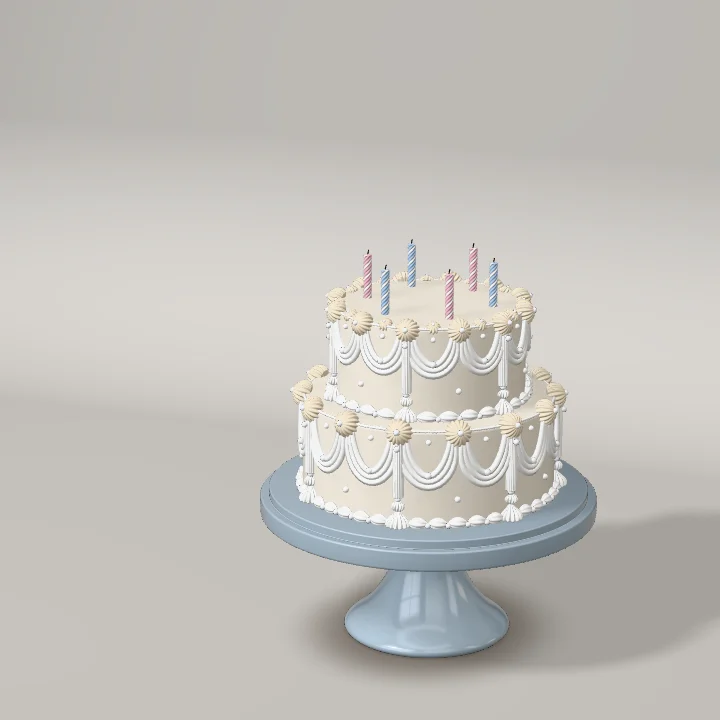
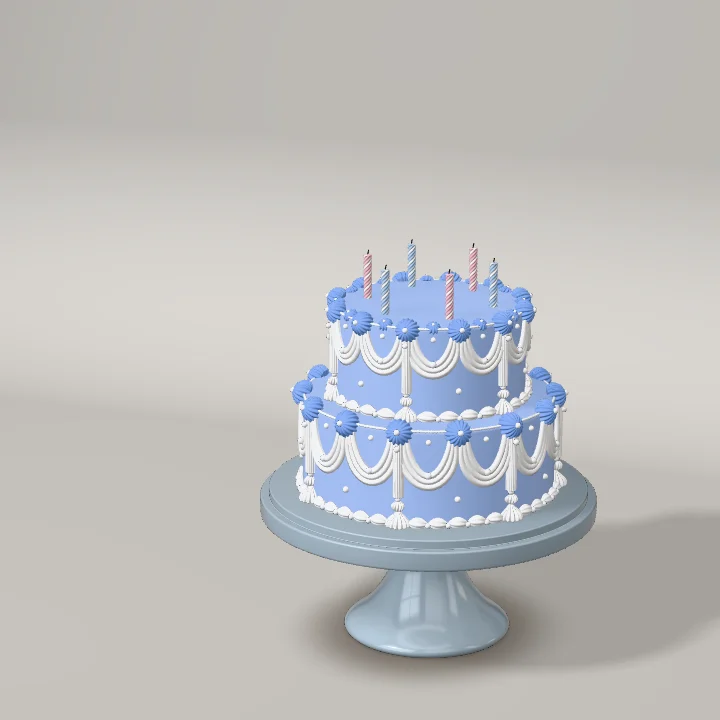
Birthday: the default cake is the blue theme
The master already carried the blue palette (powder-blue body, warm-white piping, cornflower
rosettes), but the recipe recoloured the default to ivory. The 'vanilla' config key now renders
the blue theme (labelled Blue in the showcase); cocoa unchanged. Posters and thumbnail regenerated.

Changed region(s): [[0.3972, 0.3667, 0.7944, 0.7333]]

diff --git a/scripts/masters/recipes/birthday.ts b/scripts/masters/recipes/birthday.ts
@@ -40,7 +40,9 @@ import type { MaterialPolicy, MaterialVariantSpec, NodeMap, Quat, SceneRecipe } 
  *   baseColorFactor; the shipped structure, the original ivory rebuild's warmth); cocoa is a
  *   KHR_materials_variants copy of the same four materials (chocolate body, milk-chocolate
  *   piping, dark rosettes, ivory pearls). Stand and candles keep the master's colours.
- * - Vanilla (studio pass v1.3): back to the ivory rebuild's palette (body #F3E9D8, piping
+ * - 2026-10-02: the owner asked for the blue theme, so the default ('vanilla' key) is the master's blue palette
+ *   (#B0CBFF / #FFFDFA / #88B0F7) instead of ivory.
+ * - Vanilla (studio pass v1.3, superseded by the line above): back to the ivory rebuild's palette (body #F3E9D8, piping
  *   #FFFDF8, rosettes #F3E3C7) at the master's own roughness. v1.2.1 had darkened the body to
  *   #E0D3BF at roughness 0.58 (piping #FFFCF6, rosettes #F7EFE1) because the ivory sat in the
  *   tone mapper's shoulder and read as a flat cut-out on the v1.1 peach stage: a compensation for
@@ -57,7 +59,9 @@ const lin = (hex: string): [number, number, number, number] => {
 
 /** Frosting palettes (sRGB). */
 export const PALETTE = {
-  vanilla: { body: '#F3E9D8', piping: '#FFFDF8', rosette: '#F3E3C7', pearl: '#FFFFFF' },
+  // 'vanilla' is the config key (public API, posters); the look is the blue theme chosen by the owner
+  // (powder-blue body, warm-white piping, cornflower rosettes: tools/cake_palette.py in the Models repo).
+  vanilla: { body: '#B0CBFF', piping: '#FFFDFA', rosette: '#88B0F7', pearl: '#FFFFFF' },
   cocoa: { body: '#5E3727', piping: '#94603F', rosette: '#4A281A', pearl: '#F4EADB' },
 } as const;
 

diff --git a/tests/birthday.test.ts b/tests/birthday.test.ts
@@ -445,9 +445,9 @@ describe('Birthday runtime GLB matches the contract', async () => {
     for (const n of ['cake_candle_pink', 'cake_candle_blue']) expect(mat(n).getBaseColorTexture()?.getSize()).toEqual([256, 4]);
   });
 
-  it('vanilla is the ivory rebuild’s palette at the master’s own roughness (no studio regrade)', () => {
+  it('the default (\'vanilla\' key) is the owner’s blue theme at the master’s own roughness (no studio regrade)', () => {
     // v1.2.1 darkened the body to #E0D3BF at roughness 0.58 for the v1.1 peach stage; removed in v1.3.
-    expect(PALETTE.vanilla.body).toBe('#F3E9D8');
+    expect(PALETTE.vanilla).toMatchObject({ body: '#B0CBFF', piping: '#FFFDFA', rosette: '#88B0F7' });
     const mat = (n: string) => doc.getRoot().listMaterials().find((m) => m.getName() === n)!;
     expect(mat('cake_buttercream').getRoughnessFactor()).not.toBeCloseTo(0.58, 3);
     expect(mat('cake_buttercream').getRoughnessFactor()).toBeCloseTo(mat('cake_buttercream_cocoa').getRoughnessFactor(), 6);

diff --git a/src/demo/fixtures.ts b/src/demo/fixtures.ts
@@ -73,7 +73,7 @@ export const PRESETS: Record<Category, PresetOption[]> = {
     { label: 'Cobalt label', config: { category: 'party', songId: 'sample-track-a', label: 'cobalt' } },
   ],
   birthday: [
-    { label: 'Vanilla', config: { category: 'birthday', cake: 'vanilla' } },
+    { label: 'Blue', config: { category: 'birthday', cake: 'vanilla' } },
     { label: 'Cocoa', config: { category: 'birthday', cake: 'cocoa' } },
   ],
   sports: [
